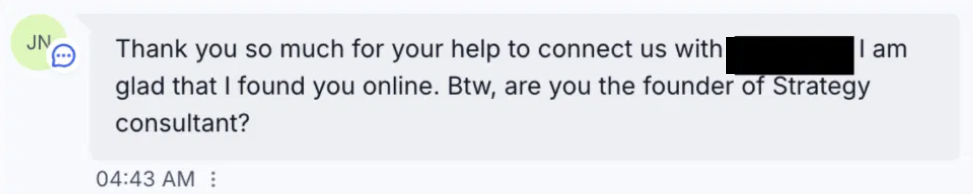
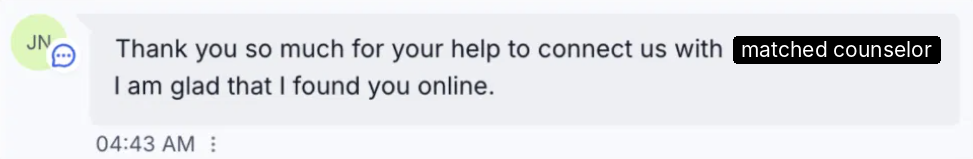
Clean up parent message screenshot: labeled redaction, trimmed text
Claude-Session: https://claude.ai/code/session_01P937We6H5J8N6LBGuFNgDJ

diff --git a/matchmaking/index.html b/matchmaking/index.html
@@ -307,7 +307,7 @@ footer a{color:inherit;text-decoration:underline;text-underline-offset:2px}
     <h2 class="display">Matchmaking call for <span class="acc">your student</span></h2>
     <p>Answer 10 quick questions about your student: grade, goals and what&rsquo;s on your mind. Then, on a free 30-minute call, we&rsquo;ll tell you which vetted independent counselor fits and why. No sales pitch. We find your counselor, and we don&rsquo;t leave.</p>
     <figure class="note-shot">
-      <img src="family-message.png" width="973" height="194" alt="Message from a parent: Thank you so much for your help to connect us with [counselor name hidden]. I am glad that I found you online." loading="lazy">
+      <img src="family-message.png" width="973" height="159" alt="Message from a parent: Thank you so much for your help to connect us with [matched counselor]. I am glad that I found you online." loading="lazy">
       <figcaption>A real message from a parent we matched</figcaption>
     </figure>
     <a class="cta" id="start" href="quiz.html">Get started &rarr;</a>
